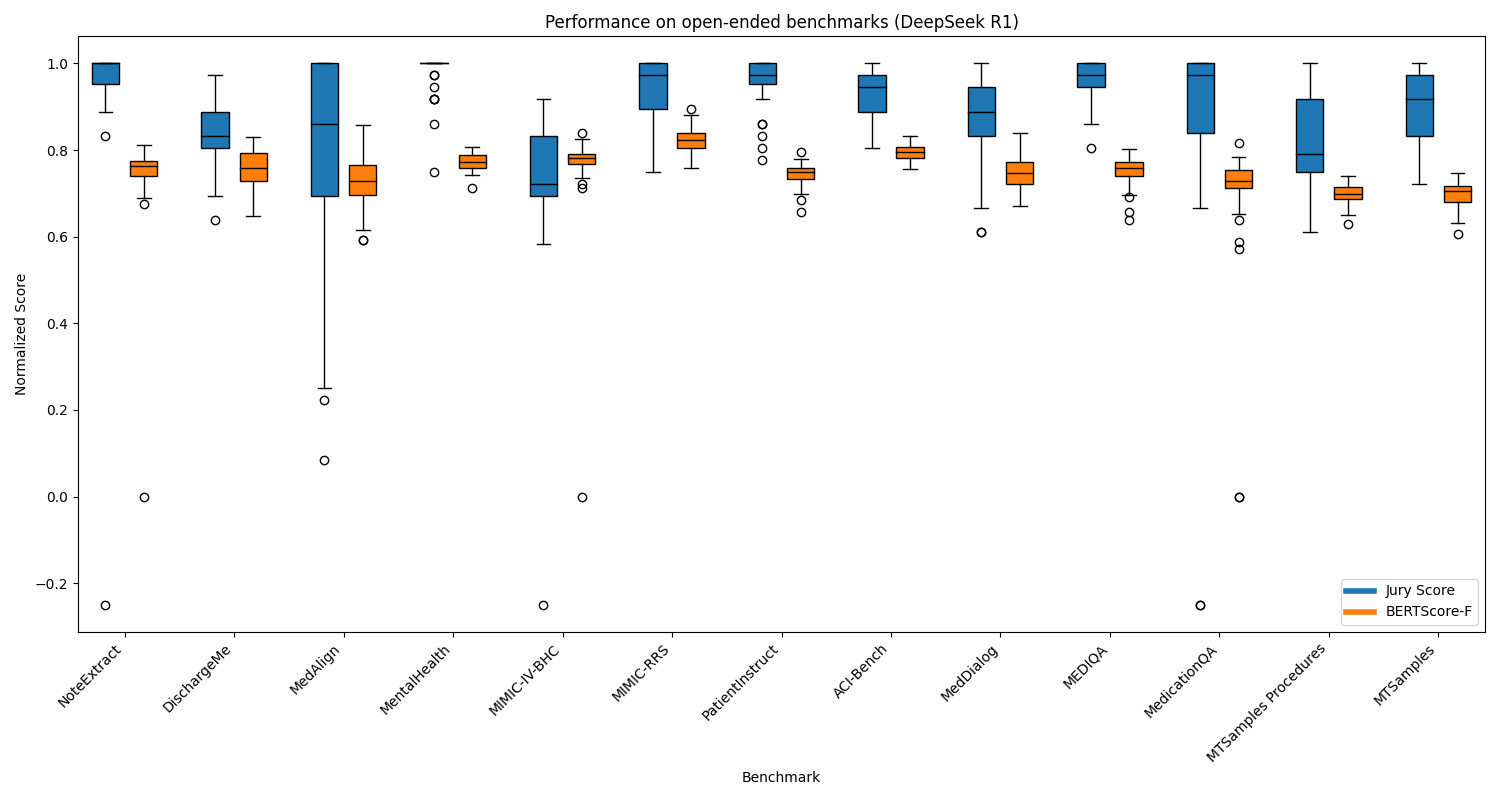
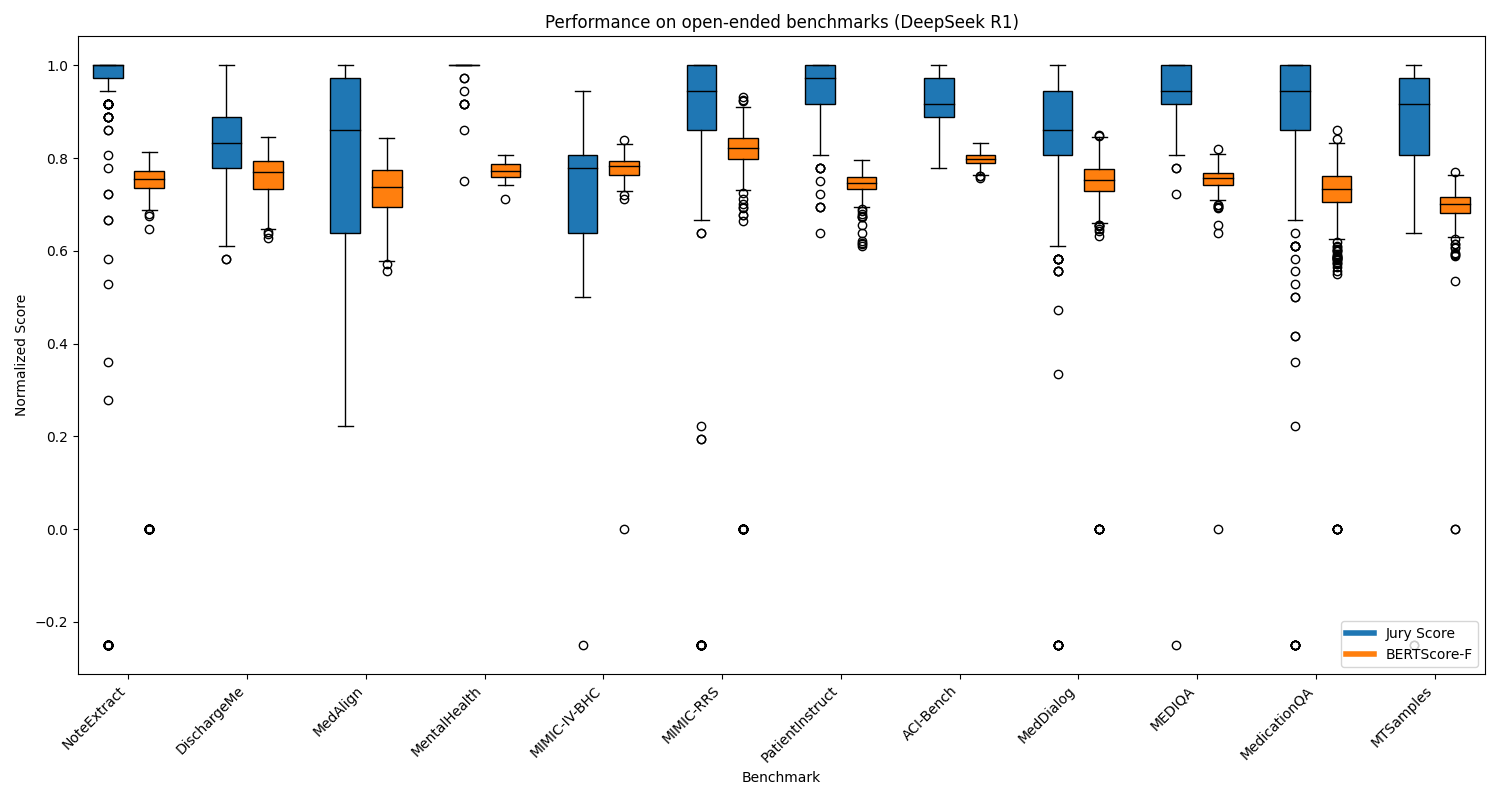
Added aggregated box plots at instance level

diff --git a/src/medhelm/plots/plot_open_ended_box_plots_aggregated.py b/src/medhelm/plots/plot_open_ended_box_plots_aggregated.py
@@ -1,0 +1,186 @@
+import argparse
+import os
+import json
+import numpy as np
+import matplotlib.pyplot as plt
+
+from typing import Dict, List, Any
+from tqdm import tqdm
+
+from helm.benchmark.run_spec import RunSpec
+from helm.common.codec import from_json
+from helm.common.hierarchical_logger import hlog
+from helm.benchmark.metrics.metric import PerInstanceStats
+from helm.benchmark.metrics.statistic import Stat
+
+from medhelm.utils.constants import (
+    BENCHMARK_METRICS, 
+    OPEN_ENDED_BENCHMARKS, 
+    BENCHMARK_NAME_MAPPING
+)
+
+PER_INSTANCE_STATS_FILE_NAME = "per_instance_stats.json"
+SCENARIO_FILE_NAME = "scenario.json"
+RUN_SPEC_FILE_NAME = "run_spec.json"
+TEST = "test"
+MAIN_METRIC_RANGE = [1, 5]
+
+
+def read_per_instance_stats(per_instance_stats_path: str) -> List[PerInstanceStats]:
+    if not os.path.exists(per_instance_stats_path):
+        raise ValueError(f"Could not load [PerInstanceStats] from {per_instance_stats_path}")
+    with open(per_instance_stats_path) as f:
+        return from_json(f.read(), List[PerInstanceStats])
+   
+
+def read_run_spec(run_spec_path: str) -> RunSpec:
+    if not os.path.exists(run_spec_path):
+        raise ValueError(f"Could not load RunSpec from {run_spec_path}")
+    with open(run_spec_path) as f:
+        return from_json(f.read(), RunSpec)
+
+
+def read_scenario(scenario_path: str) -> Dict[str, Any]:
+    with open(scenario_path) as scenario_file:
+        scenario = json.load(scenario_file)
+    return scenario
+
+
+def get_metric_stats(per_instance_stats_list: List[PerInstanceStats], metric_name: str) -> Dict[str, float]:
+    instance_to_value = {}
+    for per_instance_stats in per_instance_stats_list:
+        for stat in per_instance_stats.stats:
+            if stat.name.name == metric_name and stat.name.split == TEST:
+                instance_to_value[per_instance_stats.instance_id] = stat.sum
+    return instance_to_value
+
+
+def generate_aggregated_plot(runs_path: str, output_dir: str) -> None:
+    benchmark_instance_scores_main: Dict[str, Dict[str, List[float]]] = {}
+    benchmark_instance_scores_secondary: Dict[str, Dict[str, List[float]]] = {}
+
+    suite_names = [
+        p for p in os.listdir(runs_path)
+        if os.path.isdir(os.path.join(runs_path, p))
+    ]
+    run_dir_names = []
+    processed = {}
+    for suite in suite_names:
+        run_suite_path = os.path.join(runs_path, suite)
+        for p in os.listdir(run_suite_path):
+            full_path = os.path.join(run_suite_path, p)
+            if p not in {"eval_cache", "groups"} and os.path.isdir(full_path):
+                run_dir_names.append(os.path.join(suite, p))
+    run_dir_names.sort()
+    for run_dir_name in tqdm(run_dir_names, disable=None):
+        per_instance_stats_path = os.path.join(runs_path, run_dir_name, PER_INSTANCE_STATS_FILE_NAME)
+        scenario_path = os.path.join(runs_path, run_dir_name, SCENARIO_FILE_NAME)
+        run_spec_path = os.path.join(runs_path, run_dir_name, RUN_SPEC_FILE_NAME)
+        run_spec = read_run_spec(run_spec_path)
+        model = run_spec.adapter_spec.model.split("/")[-1].replace("-", "_")
+        if not (os.path.exists(per_instance_stats_path) and os.path.exists(scenario_path) and os.path.exists(run_spec_path)):
+            hlog(f"WARNING: Missing files in {run_dir_name}, skipping")
+            continue
+        
+        scenario = read_scenario(scenario_path)
+        scenario_name = scenario["name"]
+        if scenario_name not in OPEN_ENDED_BENCHMARKS:
+            continue
+        main_metric_name = BENCHMARK_METRICS.get(scenario_name)
+        secondary_metric_name = "BERTScore-F"
+        if not main_metric_name:
+            hlog(f"WARNING: No benchmark metric defined for scenario {scenario_name}, skipping")
+            continue
+
+        per_instance_stats_list = read_per_instance_stats(per_instance_stats_path)
+        main_scores = get_metric_stats(per_instance_stats_list, main_metric_name)
+        secondary_scores = get_metric_stats(per_instance_stats_list, secondary_metric_name)
+
+        if f"{scenario_name},{model}" not in processed:
+            processed[f"{scenario_name},{model}"] = 0
+        if scenario_name not in benchmark_instance_scores_main:
+            benchmark_instance_scores_main[scenario_name] = {}
+        if scenario_name not in benchmark_instance_scores_secondary:
+            benchmark_instance_scores_secondary[scenario_name] = {}
+        for instance_id, score in main_scores.items():
+            benchmark_instance_scores_main[scenario_name].setdefault(f"{instance_id}-{processed.get(f'{scenario_name},{model}')}" if processed.get(f"{scenario_name},{model}") > 0 else instance_id, []).append(score)
+        for instance_id, score in secondary_scores.items():
+            benchmark_instance_scores_secondary[scenario_name].setdefault(f"{instance_id}-{processed.get(f'{scenario_name},{model}')}" if processed.get(f"{scenario_name},{model}") > 0 else instance_id, []).append(score)
+        processed[f"{scenario_name},{model}"] += 1
+
+    # Average and normalize scores
+    data_main = []
+    data_secondary = []
+    labels = []
+
+    for scenario_name in sorted(benchmark_instance_scores_main.keys()):
+        main_scores = []
+        
+        for id, scores in benchmark_instance_scores_main[scenario_name].items():
+            avg_score = sum(scores) / len(scores)
+            min_val, max_val = MAIN_METRIC_RANGE
+            norm_score = (avg_score - min_val) / (max_val - min_val)
+            main_scores.append(norm_score)
+        data_main.append(main_scores)
+
+        secondary_scores = []
+        for scores in benchmark_instance_scores_secondary[scenario_name].values():
+            avg_score = sum(scores) / len(scores)
+            secondary_scores.append(avg_score)
+        data_secondary.append(secondary_scores)
+
+        label = BENCHMARK_NAME_MAPPING.get(scenario_name, scenario_name)
+        labels.append(label)
+
+    # Create plot
+    fig, ax = plt.subplots(figsize=(15, 8))
+
+    # Combine data for both metrics
+    combined_data = []
+    positions = []
+    for i in range(len(labels)):
+        combined_data.append(data_main[i])
+        combined_data.append(data_secondary[i])
+        positions.extend([2 * i + 1, 2 * i + 1.7])  # Reduced distance between main and secondary metrics
+
+    # Create the plot
+    box = plt.boxplot(combined_data, patch_artist=True, positions=positions, showfliers=True)
+
+    # Set alternating colors for the two metrics
+    colors = ["#1f77b4", "#ff7f0e"]  # Blue for main metric, orange for secondary metric
+    for i, patch in enumerate(box["boxes"]):
+        patch.set_facecolor(colors[i % 2])
+    for median in box["medians"]:
+        median.set_color("black")
+
+    # Adjust x-ticks to be centered between the two box plots for each benchmark
+    x_ticks = [1.35 + 2 * i for i in range(len(labels))]
+    plt.xticks(x_ticks, labels, rotation=45, ha='right')
+
+    # Add a legend for the colors
+    plt.legend(
+        handles=[
+            plt.Line2D([0], [0], color="#1f77b4", lw=4, label="Main Metric"),
+            plt.Line2D([0], [0], color="#ff7f0e", lw=4, label="Secondary Metric"),
+        ],
+        loc="lower right",
+    )
+
+    plt.ylabel("Normalized Score")
+    plt.xlabel("Benchmark")
+    plt.title("Average Performance on Open Ended Benchmarks Across all Models")
+    plt.tight_layout()
+
+    os.makedirs(output_dir, exist_ok=True)
+    output_path = os.path.join(output_dir, "box_plot_aggregated.png")
+    plt.savefig(output_path)
+    hlog(f"Saved figure to {output_path}")
+
+
+if __name__ == "__main__":
+    parser = argparse.ArgumentParser()
+    parser.add_argument("--benchmark_path", "-b", type=str, required=True, help="Path to the directory containing run outputs")
+    parser.add_argument("--output_dir", "-o", type=str, required=True, help="Output directory for the figure")
+    args = parser.parse_args()
+
+    generate_aggregated_plot(f"{args.benchmark_path}/runs", args.output_dir)
